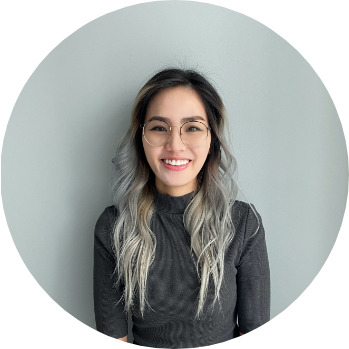
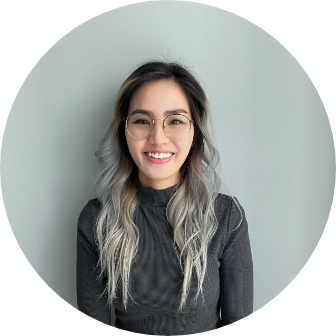
fixed aboutme page

Changed region(s): [[0.119, 0.1786, 0.7738, 0.9821], [0.3869, 0.9821, 0.4167, 1.0]]

diff --git a/css/aboutme.css b/css/aboutme.css
@@ -1,44 +1,8 @@
-/*GRID LAYOUT*/
-
-body, html {
-    min-height: 100%;
-    width: 100%;
-    margin: 0;
-    padding: 0;
-    position: relative;
+html, body {
+    height: 100%;
 }
 
-.gridLayout {
-    Background-color: white;
-    Display: grid;
-    grid-template-columns: 1fr 2fr;
-    grid-template-areas:
-    "profileIMG about"
-    "footer footer";
-    column-gap: 50px;
-    row-gap: 0;
-    padding: 0;
-    width: 100%;
-    height: 88vh;
-    position: relative;
-    margin-top: 5vh;
-}
-
-@media (max-width: 980px) {
-    .gridLayout { 
-        grid-template-columns: 1fr;
-        grid-gap: 0;
-        grid-template-areas: 
-        "profileIMG"
-        "about"
-        "footer";
-        padding: 0;
-        text-align: center;
-     }
-
-}
-
-/*header*/
+/*--------------- HEADER ---------------*/
 .aboutNav {
     border-bottom: 3px solid #F5DF4D;;
     padding-bottom: 3px;
@@ -64,100 +28,82 @@ body, html {
     background-color: black;
 }
 
-.profileIMG {
-    grid-area: profileIMG;
+/*--------------- CONTENT ---------------*/
+.about-grid {
     display: flex;
-    justify-content: center;
-    align-items: center;
-    margin-left: 20%;
+    flex-direction: row;
+    padding: 10vh 15% 10vh 15%;
+
 }
 
-.profileIMG img {
-    max-height: calc(100px + 30vh);
-}
-
-@media (max-width: 980px) {
-    .profileIMG {
-        padding: 0;
-        margin-top: 5vh;
-        margin-left: 0;
-        display: flex;
-        align-items: center;
-        justify-content: center;
-    }
-
-    .profileIMG img {
-        margin-top: 0;
-    }
-
-    .about {
-        padding: 0;
-        margin-bottom: 30vh;
-        margin-right: 15% !important;
-        margin-left: 15% !important;
-        display: flex;
+@media (max-width: 1400px) {
+    .about-grid {
+        padding: 5vh 15% 5vh 15%;
         flex-direction: column;
-        align-items: center;
-        justify-content: center;
-    }
-
-    .about img {
-        width: 300px;
-    }
-
-    .button {
-        display: flex;
-        align-items: center;
-        justify-content: center;
+        width: 100%;
     }
 }
 
-.about {
-    grid-area: about;
-    margin-right: 20%;
-    margin-left: 30px;
+.contentLeft {
+    display: flex;
+    align-items: center;
+    justify-content: center;
 }
 
-.about img {
-    max-width: 400px ;
-    margin-left: 20px;
-    margin-top: 5vh;
+.contentLeft img {
+    max-width: 458px;
+    min-width: 350px;
 }
 
-.sub, .description {
-    margin-top: 20px;
+.contentRight {
+    display: flex;
+    flex-direction: column;
+    margin-left: 80px;
+    justify-content: center;
+    line-height: 30px;
+}
+
+.contentRight img {
+    max-width: 350px;
+    min-width: 300px;
+}
+
+.contentRight p {
+    margin-bottom: 5px;
 }
 
 .sub {
-color: #939597;
-line-height: 30px;
+    color: #939597;
+    font-weight: 500;
 }
 
-.description {
-    line-height: calc(15px + 1.5vh);
+.indent {
+    text-indent: 2em;
 }
 
-.quotation {
-    color: #F5DF4D;
-    font-weight: bolder;
-    font-size: 50px;
+.quote:before {
+    content: "\201C";
+    padding-right: 10px;
+    font-size: 2.5em;
+    color: #FADE11;
     font-family: 'Times New Roman', Times, serif;
-    margin-left: -30px;
 }
 
-footer {
-    position: absolute;
-    bottom: 0; 
+.divButton {
+    margin-top: 2vh;
 }
 
-
-@media (max-height:890px) {
-    footer {
-        position: relative;
+@media (max-width: 1400px) {
+    .contentLeft {
+        margin-bottom: 20px;
     }
-   
-    .profileIMG img {
-        min-height: calc(200px + 25vh);
-        margin-top: 10vh;
+    .contentRight {
+        margin-left: 0;
+    }
+    .contentRight img {
+        margin-bottom: 20px;
+    }
+    footer {
+        margin-top: 0;
     }
 }

diff --git a/aboutMe.html b/aboutMe.html
@@ -4,7 +4,7 @@
      <link href="css/style.css" rel="stylesheet" type="text/css">
      <link href="css/aboutme.css" rel="stylesheet" type="text/css">
 
-    <title>Lisa Le</title>
+    <title>Lisa Le - About Me</title>
  </head>
 <body>
 
@@ -25,24 +25,22 @@
         </div>
 </header>
 
-<!--Grid-->
-<div class="gridLayout">
-
-    <div class="profileIMG">
-        <img src="Images/profile.png" alt="Profile Image">
+<!--content-->
+<div class="about-grid">
+    <div class="contentLeft">
+        <img src="Images/Lisa.png">
     </div>
-
-<div class="about">
-  <img src="Images/Hello.png">
-
-    <p class="sub">A recent graduate of University of Toronto’s UX/UI Bootcamp with a background in digital design and 6 years of retail management experience.</p>
-
-    <p class="description"><span class="quotation">&#8220;</span>
-    As far as I can remember, I have always been a creative soul. Afraid of losing that passion, I opted out of monetizing my work. Instead, I developed skills in retail management and discovered a different passion — data and developing people. Fast forward six years later. It is time for me to expand on skills like: development and assessment, that I have grown in my role as a manager and apply them to my passion for design.
-    <br>Drawing from my management experience I can better address questions like what drives a company, what needs does a team have to address, and what skills can be supported by smart information design? I see a direct application of the skill set I produced while advancing through my retail career to the work required in design. Both are about tailoring and communicating information to enable other people to succeed.</p>
     
-    <a href="Resume/LisaLeResume.pdf" target="_blank" class="divButton"><button class="button">View my resume</button></a>
-  </div> 
+    <div class="contentRight">
+        <img class="hello" src="Images/Hello.png">
+        <p class="sub">A graduate of University of Toronto’s UX/UI Certificate Program with a background in digital art and 6 years of retail management experience.</p>
+        <p class="quote">As far as I can remember, I have always been a creative soul. Afraid of losing that passion, I opted out of monetizing my work. Instead, I developed skills in retail management and discovered a different passion — data and developing people. Fast forward six years later. It is time for me to expand on skills like: development and assessment, that I have grown in my role as a manager and apply them to my passion for design.
+        </p>
+        <p class="indent"> Drawing from my management experience I can better address questions like what drives a company, what needs does a team have to address, and what skills can be supported by smart information design? I see a direct application of the skill set I produced while advancing through my retail career to the work required in design. Both are about tailoring and communicating information to enable other people to succeed.
+        </p> 
+        <a href="Resume/LisaLeResume.pdf" class="divButton" target="_blank"><button class="button">View Resume</button></a> 
+    </div>
+</div>
 
 <!--footer-->
 <footer class="footer">
@@ -56,7 +54,6 @@
           <p class="copyRight">Copyright © 2021 Lisa Le. All rights reserved.</p>
     </div>
 </footer>
-</div>
 
 
 </body>

diff --git a/index.html b/index.html
@@ -52,6 +52,7 @@
         <div class="workContainer">
             <img src="Images/myWork.png" alt="My Work">
         </div>
+        
         <div class="blmContainer">
             <a id="blmIMG" href="blm.html"><img src="Images/BLM.png" alt="BLM protest">
         
